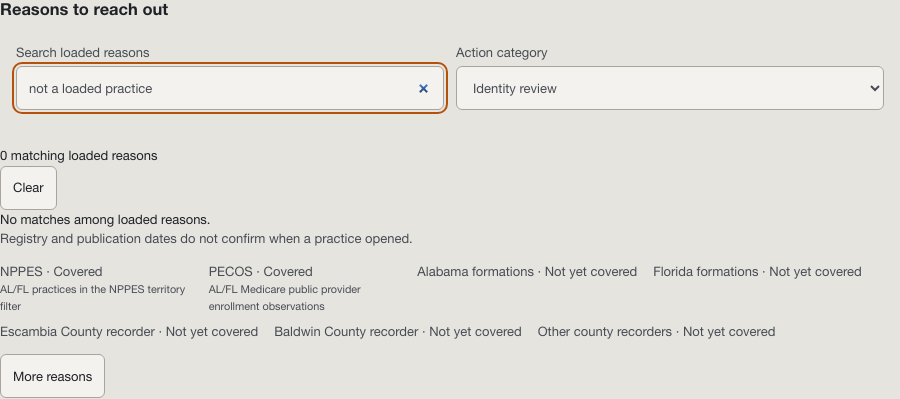
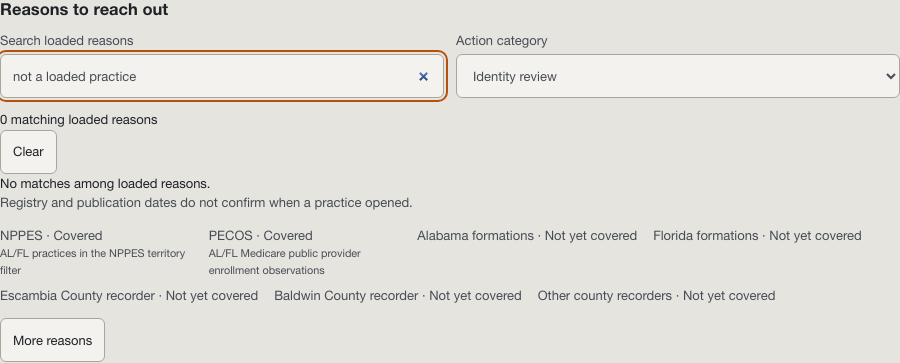
fix(leads): preserve board layout around reason filters

diff --git a/src/ui/contact-reasons.tsx b/src/ui/contact-reasons.tsx
@@ -28,6 +28,7 @@ function ReasonCard({ row, home }: { row: Card; home: boolean }) {
     <div className="work-card-actions"><a data-reason-key={`source:${row.id}`} href={row.source_url} target="_blank" rel="noopener noreferrer">{sources[row.source]} source<span className="sr-only"> for {row.name} (opens in new tab)</span> ↗</a></div>
   </article>;
 }
+const filterLabelStyle = { display: 'grid', gap: 'var(--space-1)', color: 'var(--fg-muted)', fontSize: 'var(--font-size-1)' };
 function ContactReasons({ payload, error, busy, retired, home, visibleCount }: State) {
   const searchInput = useRef<HTMLInputElement>(null);
   const [search, setSearch] = useState('');
@@ -40,10 +41,10 @@ function ContactReasons({ payload, error, busy, retired, home, visibleCount }: S
   return <><header className={home ? 'home-panel-head' : 'section-heading'}><h2>Reasons to reach out</h2>{home && <a className="home-plain-link" data-reason-key="all" href="/leads#contactReasons">All reasons</a>}</header>
     {retired ? <p role="status">Sign in to view contact reasons.</p> : <>
       {error && <p role="status">Contact reasons unavailable.{payload ? ' Showing last update.' : ''} <button type="button" data-reason-key="retry" data-retry-reasons>Try again</button></p>}
-      {payload ? <>{!home && <>
-        <div className="controls">
-          <label className="search">Search loaded reasons<input ref={searchInput} type="search" value={search} onChange={event => setSearch(event.target.value)} /></label>
-          <label>Action category<select value={category} onChange={event => setCategory(event.target.value)}>
+      {payload ? <>{!home && Boolean(payload.cards.length || payload.next_cursor || search || category) && <>
+        <div style={{ display: 'grid', gridTemplateColumns: 'repeat(auto-fit, minmax(min(100%, 240px), 1fr))', gap: 'var(--space-3)', marginBlock: 'var(--space-3)' }}>
+          <label className="search" style={filterLabelStyle}>Search loaded reasons<input ref={searchInput} type="search" value={search} onChange={event => setSearch(event.target.value)} /></label>
+          <label style={filterLabelStyle}>Action category<select value={category} onChange={event => setCategory(event.target.value)}>
             <option value="">All</option><option value="research">Research</option>
             <option value="relationship_follow_up">Relationship follow-up</option><option value="identity_review">Identity review</option>
           </select></label>
